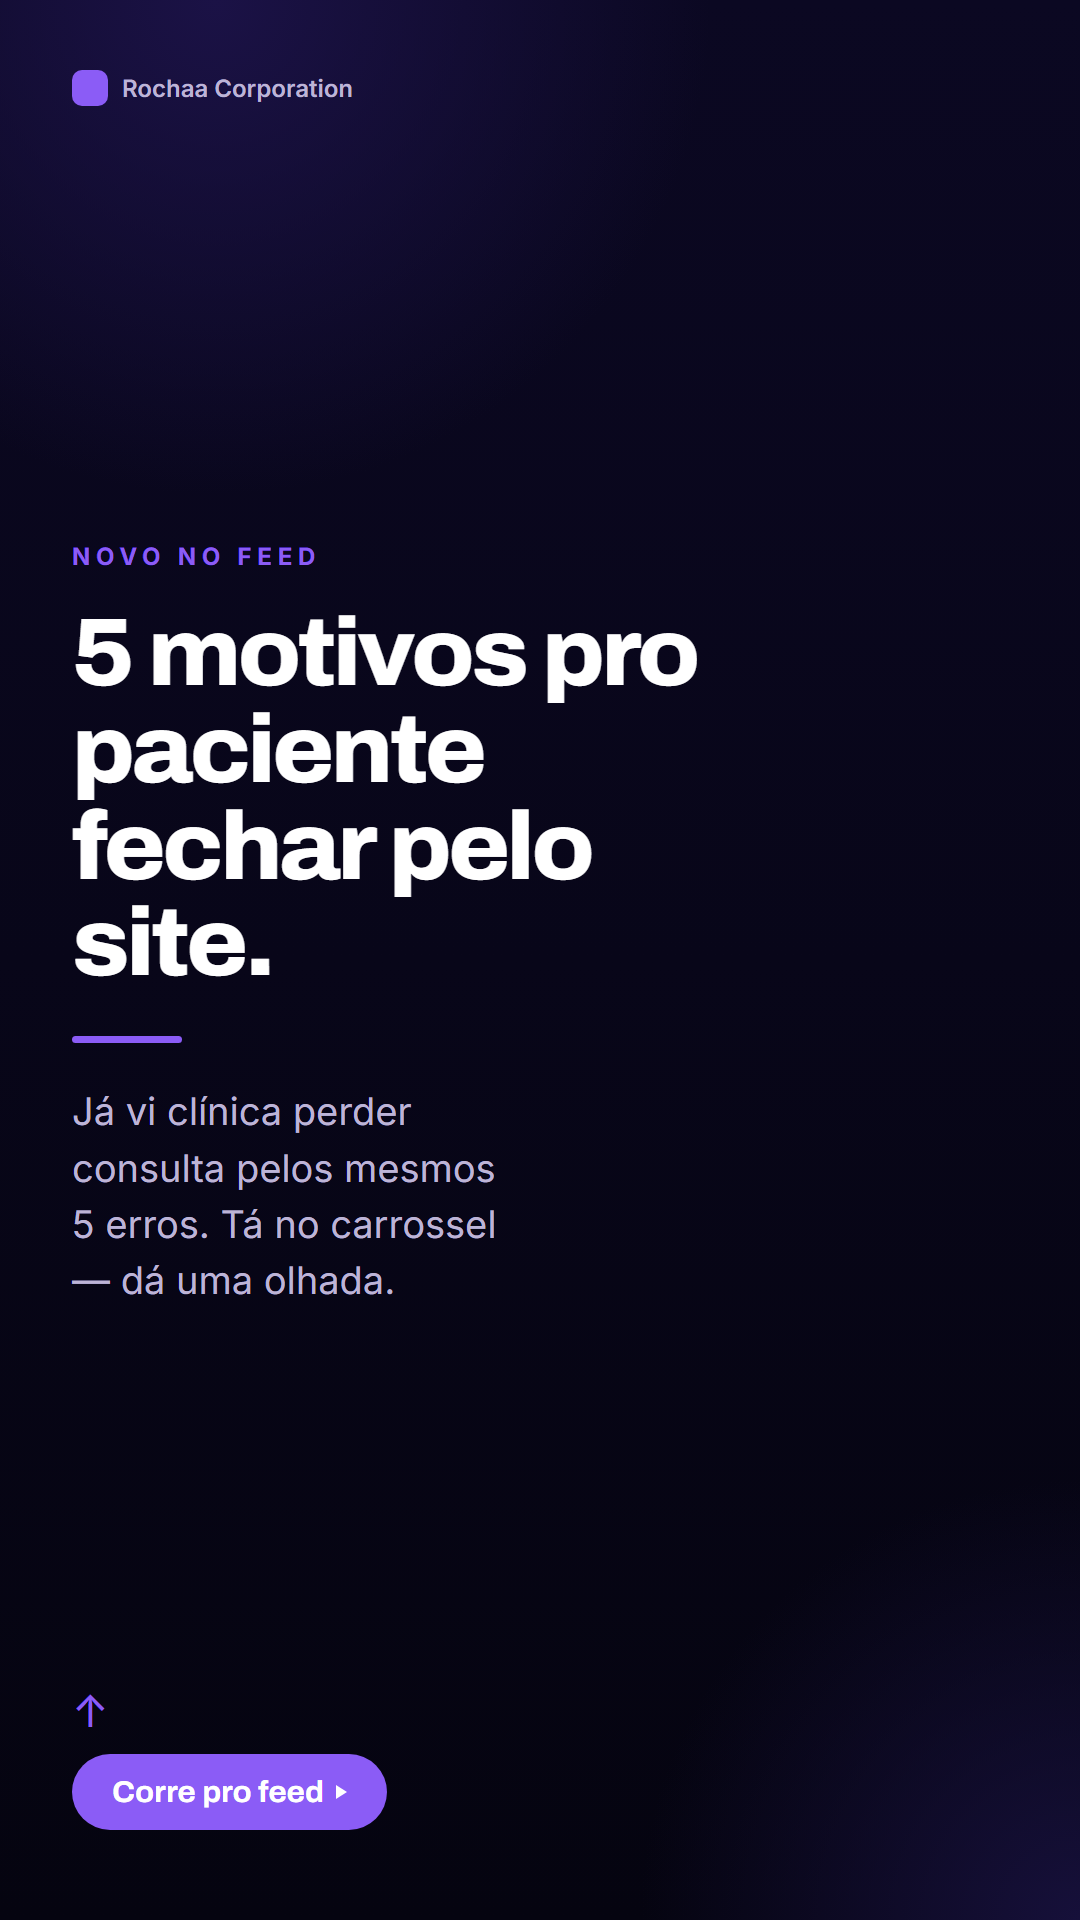
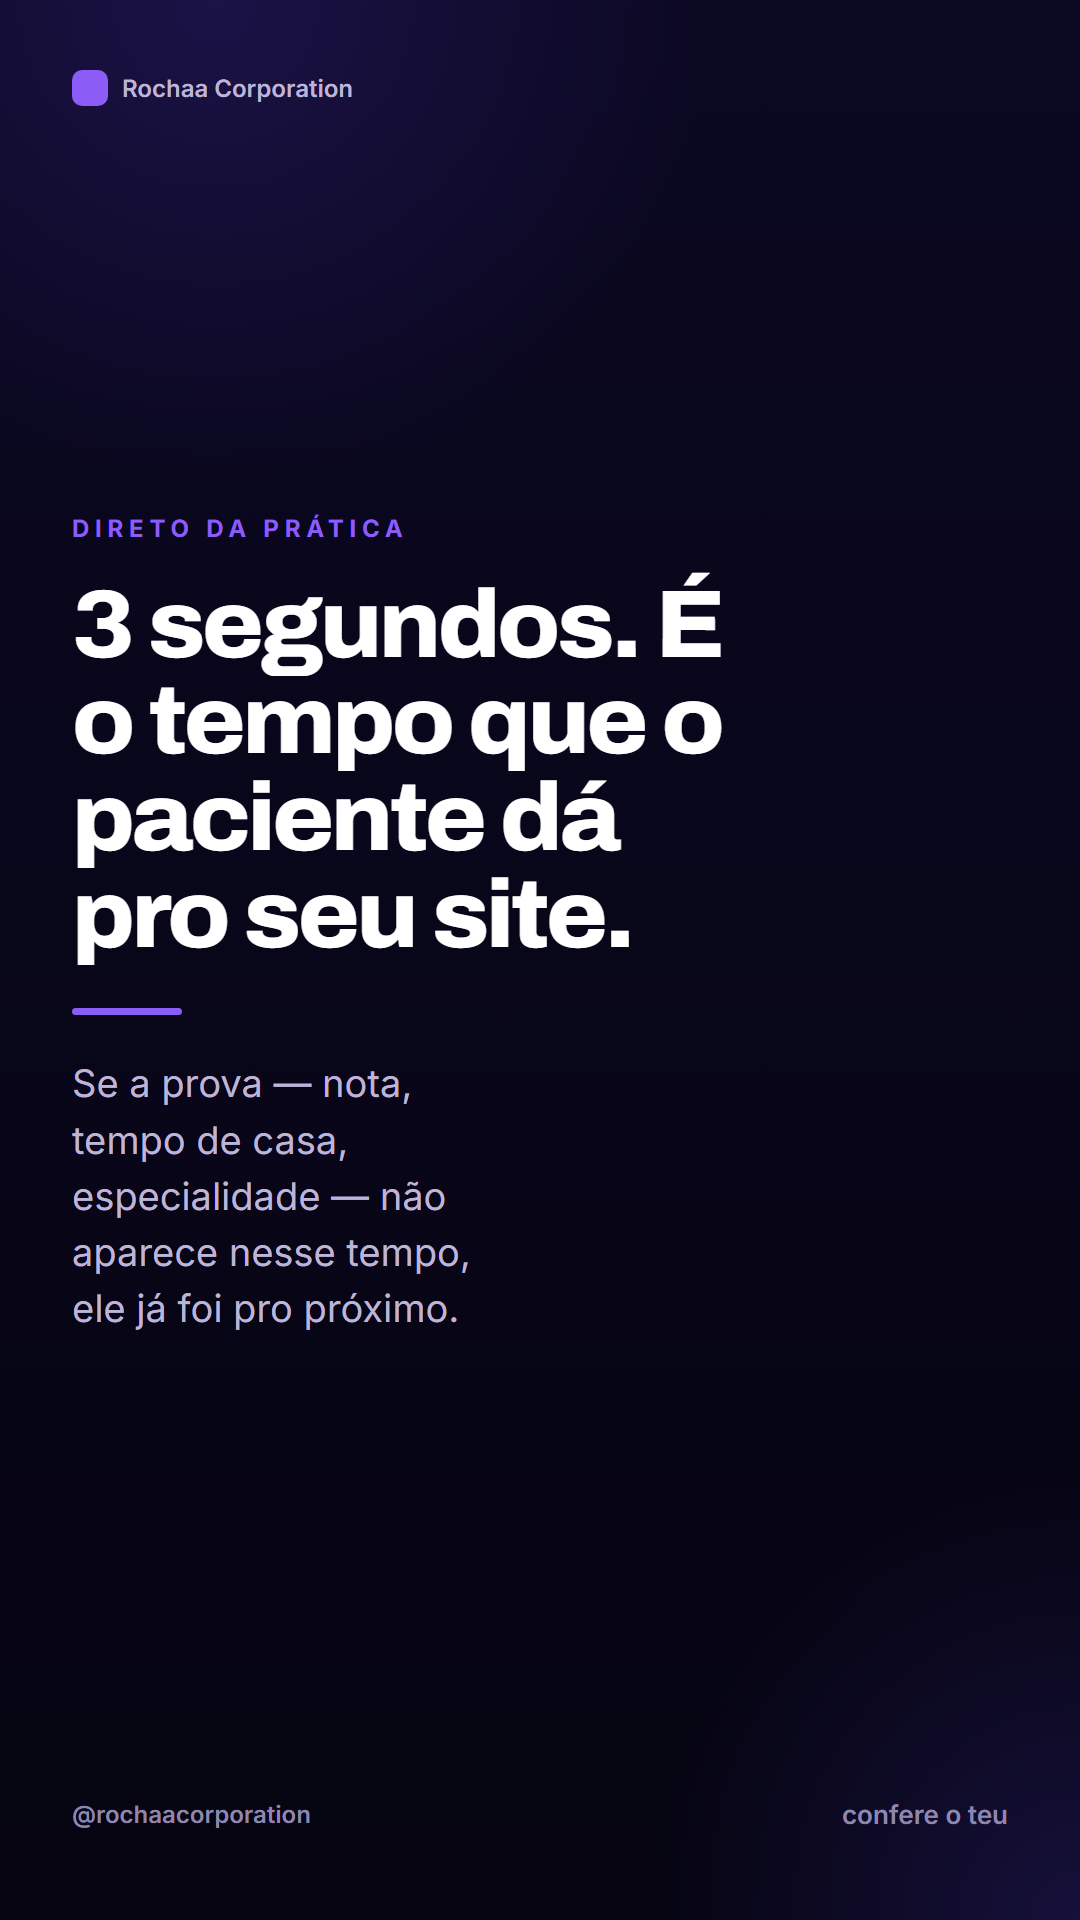
Troca story 1 pra não depender do carrossel do feed
Substitui o hook que puxava tráfego pro post do feed por um insight
que funciona sozinho, já que os stories não devem promover carrossel.

Changed region(s): [[0.0611, 0.25, 0.6722, 0.6875], [0.0611, 0.875, 0.3667, 0.9688], [0.7944, 0.9375, 0.9167, 0.9688]]

diff --git a/marketing/conteudo/stories-posicionamento-2026-09-13/stories.html b/marketing/conteudo/stories-posicionamento-2026-09-13/stories.html
@@ -50,19 +50,16 @@
 </head>
 <body>
 
-<!-- 01 — Puxa pro carrossel novo -->
+<!-- 01 — Hook standalone -->
 <section class="story" id="st1">
   <div class="brand"><i></i>Rochaa Corporation</div>
   <div class="safe">
-    <div class="kicker">Novo no feed</div>
-    <h1>5 motivos pro paciente fechar pelo site.</h1>
+    <div class="kicker">Direto da prática</div>
+    <h1>3 segundos. É o tempo que o paciente dá pro seu site.</h1>
     <div class="regua"></div>
-    <p class="sub">Já vi clínica perder consulta pelos mesmos 5 erros. Tá no carrossel — dá uma olhada.</p>
+    <p class="sub">Se a prova — nota, tempo de casa, especialidade — não aparece nesse tempo, ele já foi pro próximo.</p>
   </div>
-  <div class="cta">
-    <span class="arrow-up">↑</span>
-    <span class="pill">Corre pro feed</span>
-  </div>
+  <div class="rodape"><span class="handle">@rochaacorporation</span><span>confere o teu</span></div>
 </section>
 
 <!-- 02 — Diferencial / como trabalha -->

diff --git a/marketing/conteudo/stories-posicionamento-2026-09-13/legenda.md b/marketing/conteudo/stories-posicionamento-2026-09-13/legenda.md
@@ -4,9 +4,8 @@ Um por dia, nessa ordem. São stories, não tem legenda de feed — só a arte j
 O que fazer em cada um, na hora de postar:
 
 ## Dia 1 — story-01.png
-Adiciona o sticker de **link** apontando pro post do carrossel "5 motivos" e cola em cima
-da seta/"Corre pro feed". Se não tiver link direto, troca o CTA por "manda um oi que eu mando
-o link" na resposta de quem reagir.
+Story solo, não depende de nenhum post do feed. Deixa a caixinha de resposta ativa —
+quem concordar com o "3 segundos" já é gancho pra puxar conversa.
 
 ## Dia 2 — story-02.png
 Deixa a caixinha de resposta do story ativa (já vem por padrão). Quem responder "oi" já

diff --git a/marketing/conteudo/stories-posicionamento-2026-09-13/texto.md b/marketing/conteudo/stories-posicionamento-2026-09-13/texto.md
@@ -4,12 +4,12 @@ Tema: posicionamento da Rochaa Corporation. Um por dia. Ordem sugerida: 1 → 2 
 
 ---
 
-## Story 1 — Puxa gente pro carrossel novo
+## Story 1 — Hook standalone
 
-Kicker: Novo no feed
-Headline: 5 motivos pro paciente fechar pelo site
-Sub: Já vi clínica perder consulta pelos mesmos 5 erros. Tá no carrossel — dá uma olhada.
-CTA: Corre pro feed ↑
+Kicker: Direto da prática
+Headline: 3 segundos. É o tempo que o paciente dá pro seu site.
+Sub: Se a prova — nota, tempo de casa, especialidade — não aparece nesse tempo, ele já foi pro próximo.
+CTA: Confere o teu
 
 ## Story 2 — Diferencial / como trabalha
 
